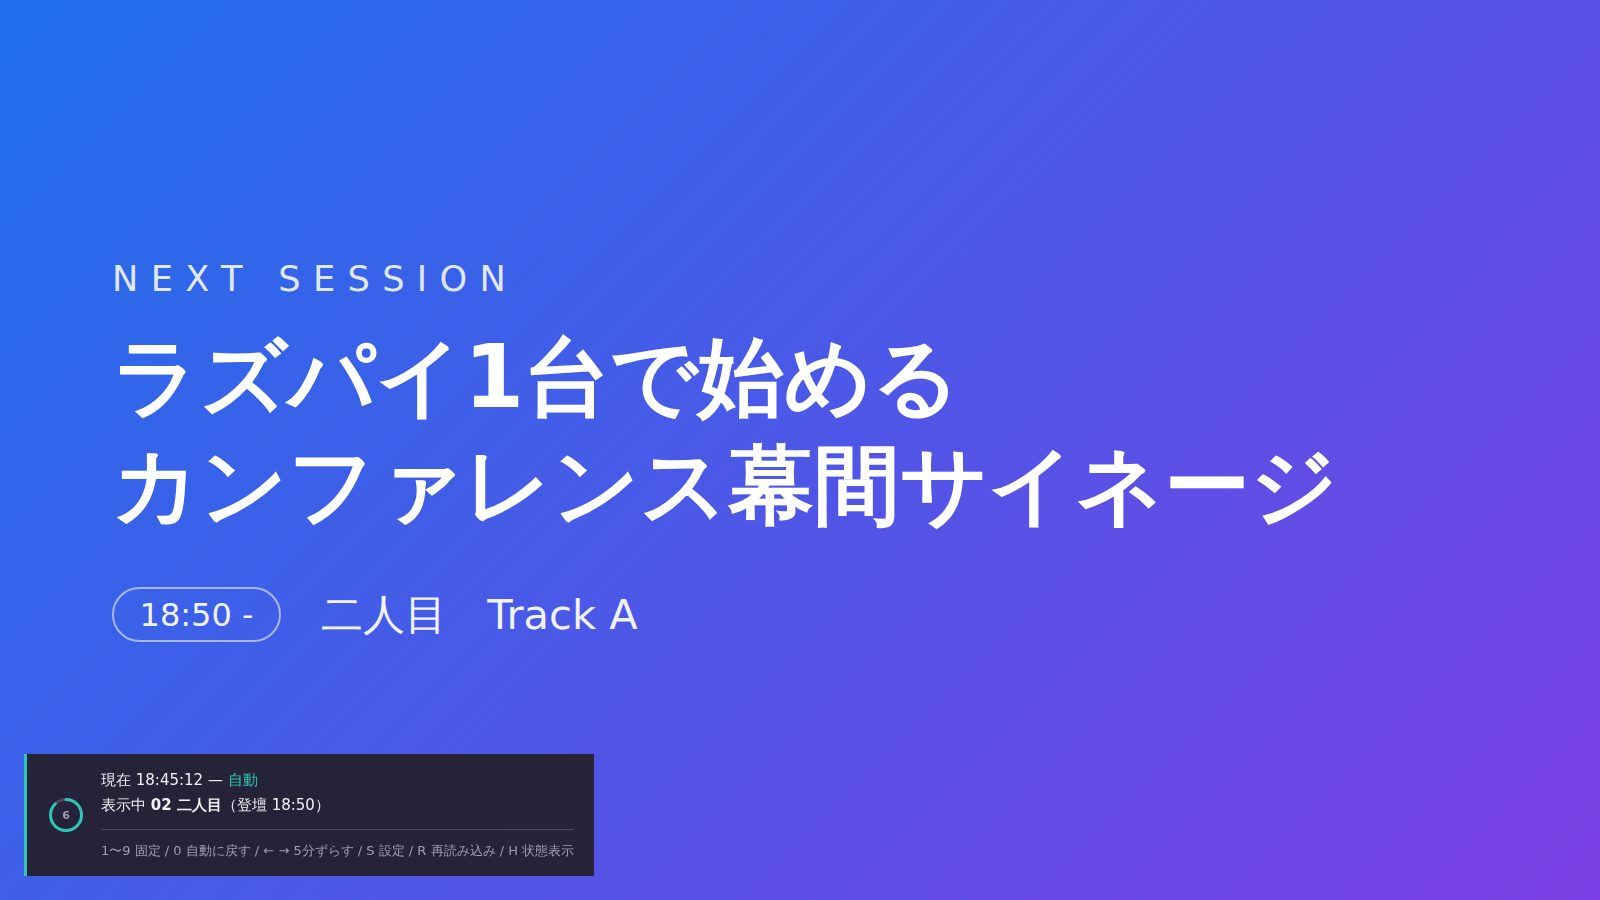
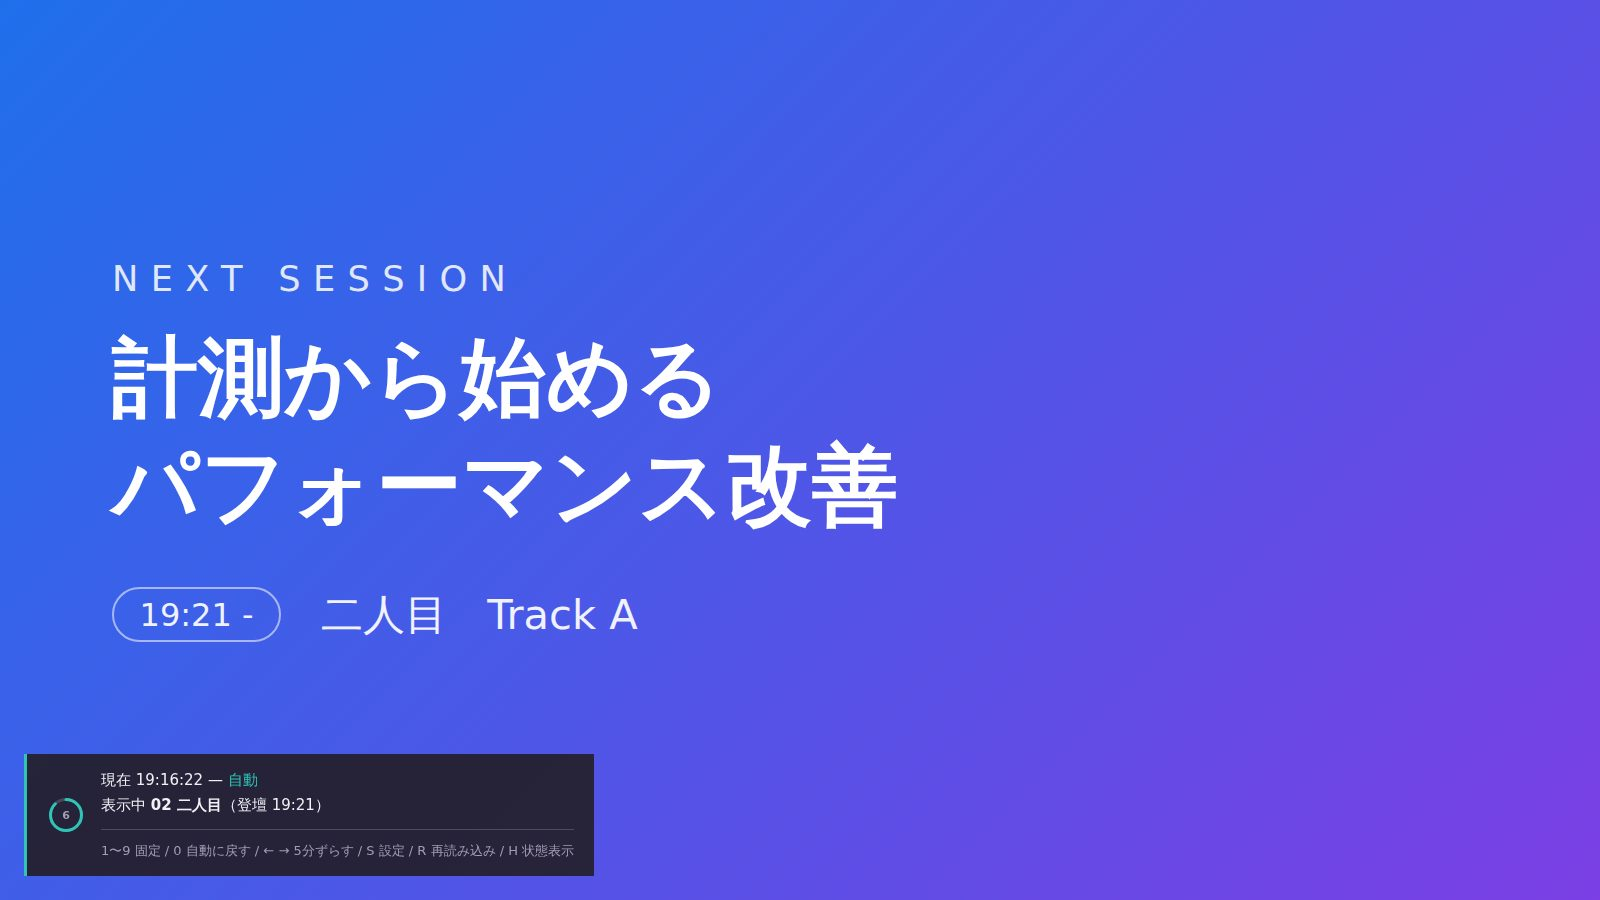
Remove Raspberry Pi framing from the hero image and README
クロスプラットフォーム対応にしたのに、ヒーロー画像に埋め込んだデモスライドが
「ラズパイ1台で始める」のままで、Raspberry Pi 専用に見えていた。

- デモスライドの見出しを、環境に寄らない一般的な登壇タイトルに差し替え、
  スクリーンショットを撮り直した
- 時計合わせの節が timedatectl だけを載せていて Linux 前提だったので、
  macOS / Windows は自動同期であること、Raspberry Pi だけ RTC が無いことを
  分けて書く
- 制約に2つ追記。日付をまたぐスケジュールに対応していないこと
  （00:10 時点で先頭の枠に戻ることを実測して確認）と、
  Windows 版の起動スクリプトが実機未検証であること

README と実装の突き合わせ 0 件、起動スクリプト Linux 27 / macOS 17、
入口と配布物 16、ブラウザ 30 / 25 / 6。

Claude-Session: https://claude.ai/code/session_015e4csh5RVHuXCE7v4LeZ8P

diff --git a/README.md b/README.md
@@ -144,7 +144,9 @@ chromium --kiosk --ozone-platform=wayland --password-store=basic \
 
 各行の「表示開始」は空のままにしておけば `前の登壇開始 + バッファ` で自動計算されます。個別に上書きしたい行だけ時刻を入れてください。
 
-判定は設定した**タイムゾーンで行うため、端末のタイムゾーン設定に依存しません**。ただし端末の時計自体は合っている必要があります。Raspberry Pi は RTC を持たないので、NTP 同期を確認してください。
+判定は設定した**タイムゾーンで行うため、端末のタイムゾーン設定に依存しません**。ただし端末の時計自体は合っている必要があります。
+
+macOS と Windows は既定で自動同期されているので、通常は気にしなくて構いません。**Raspberry Pi だけは RTC を持たない**ため、電源を入れ直すたびにネットワーク経由で時刻を取り直します。本番前に同期を確認してください。
 
 ```sh
 timedatectl   # System clock synchronized: yes
@@ -215,6 +217,8 @@ http://localhost:8080/?config=schedule.json
 - Google スライドの「ウェブに公開」が必要です。限定共有のままでは自動送りが効かないことがあります
 - 自動送りの間隔はスライド側の公開設定と URL のパラメータの両方で指定されます。設定画面の「表示秒数」は URL 側を上書きします
 - iframe で埋め込むため、Google 側の仕様変更の影響を受けます
+- 日付をまたぐスケジュール（23:30 の次が 00:30 など）には対応していません。時刻を分単位で比較しているため、0 時を回ると先頭の枠に戻ります
+- Windows 版の起動スクリプトは実機での確認が取れていません。動かない場合は [Issues](https://github.com/miura-bd/makuai-slide-scheduler/issues) へお寄せください
 
 ## バージョン
 
